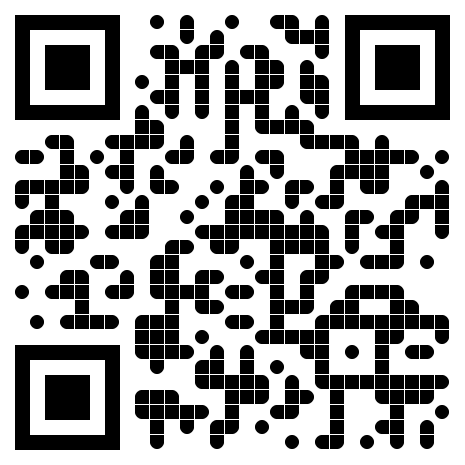
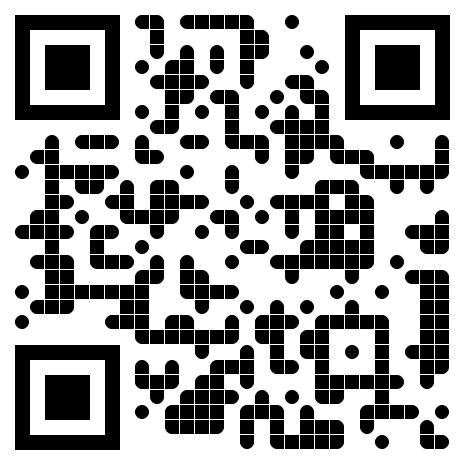
fix input names

Changed region(s): [[0.0301, 0.0301, 0.9634, 0.9634], [0.9333, 0.9333, 0.9634, 0.9634], [0.0301, 0.5118, 0.0602, 0.5419]]

diff --git a/templates/wifi.html b/templates/wifi.html
@@ -36,15 +36,15 @@
             <div class="field is-narrow">
                 <div class="control">
                     <label class="radio">
-                        <input type="radio" name="wifiRadio" />
+                        <input type="radio" name="encryption" />
                         None
                     </label>
                     <label class="radio">
-                        <input type="radio" name="wifiRadio" />
+                        <input type="radio" name="encryption" />
                         WPA/WPA2
                     </label>
                     <label class="radio">
-                        <input type="radio" name="wifiRadio" />
+                        <input type="radio" name="encryption" />
                         WEP
                     </label>
                 </div>

diff --git a/main.py b/main.py
@@ -44,7 +44,7 @@ def contact_page():
         contactCompany = request.form.get("contactCompany")
         contactEmail = request.form.get("contactEmail")
 
-        data = f""
+        data = f"BEGIN:VCARD;VERSION:3.0;FN:{contactFname} {contactLname};N:{contactLname};{contactFname};;;TEL;TYPE=CELL:{contactMobile};TEL;TYPE=WORK:{contactPhone};ORG:{contactCompany};EMAIL:{contactEmail};END:VCARD"
         if data:
             generateQRcode(data, "./static/sample.png")
     return render_template("contact.html", active="contact")
@@ -54,10 +54,10 @@ def wifi_page():
     if request.method == "POST":
         SSID = request.form.get("SSID")
         wifiPassword = request.form.get("wifiPassword")
-        wifiRadio = request.form.get("wifiRadio")
+        encryption = request.form.get("encryption")
 
-        data = f"WIFI:S:{SSID};T:{wifiRadio};P:{wifiPassword};;"
-        if SSID and wifiPassword and wifiRadio :
+        data = f"WIFI:S:{SSID};T:{encryption};P:{wifiPassword};;"
+        if SSID and wifiPassword and encryption :
             generateQRcode(data, "./static/sample.png")
     return render_template("wifi.html", active="wifi")
 
@@ -73,17 +73,17 @@ def image_page():
 def social_page():
     if request.method == "POST":
         if request.form.get("Twitter"):
-            data = f"https://twitter.com/{request.form.get('TwitterHandle')}"
+            data = f"https://twitter.com/{request.form.get('Twitter')}"
         elif request.form.get("Facebook"):
-            data = f"https://www.facebook.com/{request.form.get('FacebookUsername')}"
+            data = f"https://www.facebook.com/{request.form.get('Facebook')}"
         elif request.form.get("Whatsapp"):
-            data = f"https://wa.me/{request.form.get('WhatsappNumber')}"
+            data = f"https://wa.me/{request.form.get('Whatsapp')}"
         elif request.form.get("Snapchat"):
-            data = f"https://www.snapchat.com/add/{request.form.get('SnapchatUsername')}"
+            data = f"https://www.snapchat.com/add/{request.form.get('Snapchat')}"
         elif request.form.get("Instagram"):
-            data = f"https://www.instagram.com/{request.form.get('InstagramUsername')}"
+            data = f"https://www.instagram.com/{request.form.get('Instagram')}"
         elif request.form.get("Telegram"):
-            data = f"https://t.me/{request.form.get('TelegramUsername')}"
+            data = f"https://t.me/{request.form.get('Telegram')}"
         else:
             data = None
 
@@ -92,4 +92,3 @@ def social_page():
     
     return render_template("social.html", active="social")
 ##testing ..
-
